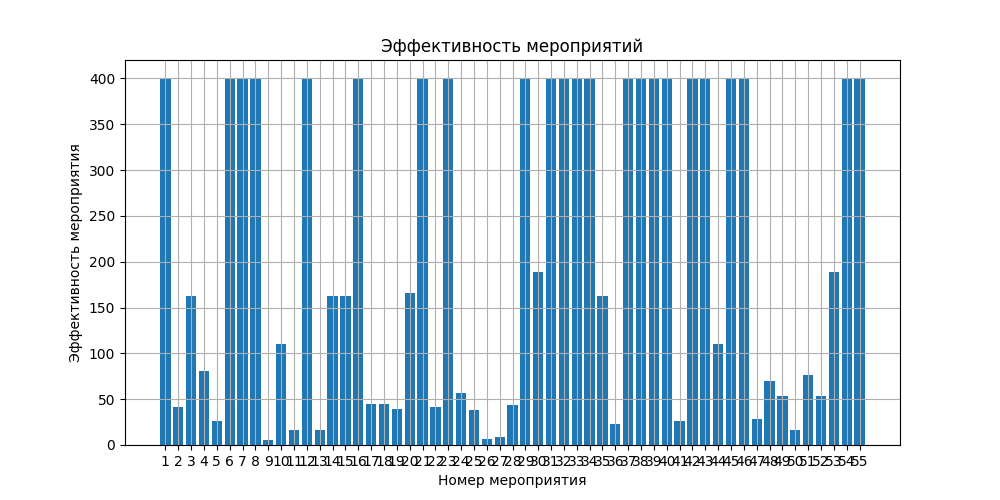
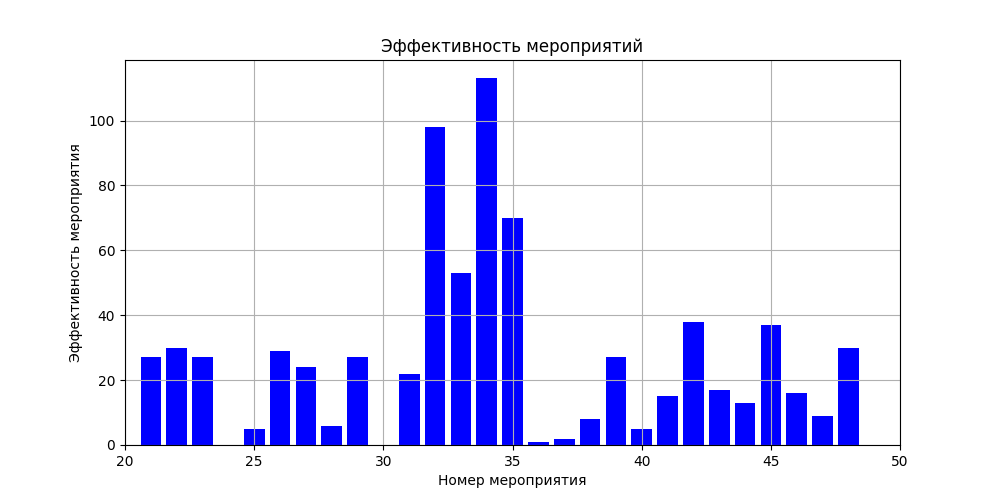
bar2

diff --git a/model2.py b/model2.py
@@ -2,6 +2,7 @@ import numpy as np
 import pandas as pd
 from scipy.optimize import minimize
 from scipy.integrate import quad
+from tqdm import tqdm
 
 def load_data():
     file1 = 'inter_date_num.txt'
@@ -30,7 +31,10 @@ def get_parameters():
     initial_params[2*num_event_types:] += 0.15
     bounds = [(0, 100)] * num_event_types + [(0.3, 2)] * num_event_types + [(0.15, 2)] * num_event_types
 
+    pbar = tqdm()
+
     def loss_function(params):
+        pbar.update(1)
         K0s = params[:num_event_types]
         V_abss = params[num_event_types:2*num_event_types]
         V_els = params[2*num_event_types:3*num_event_types]
@@ -46,28 +50,28 @@ def get_parameters():
                 V_abs = V_abss[et - 1]
                 V_el = V_els[et - 1]
                 if sub_day >= ed:
-                    effect = pharmacokinetic_model((sub_day - ed)//86400, K0, V_abs, V_el)
-                    #effect, error = quad(
-                        #lambda t, K0=K0, V_abs=V_abs, V_el=V_el: pharmacokinetic_model(t, K0, V_abs, V_el), 0,(sub_day - ed)//86400)
+                    # effect = pharmacokinetic_model((sub_day - ed)//86400, K0, V_abs, V_el)
+                    effect, error = quad(
+                        lambda t, K0=K0, V_abs=V_abs, V_el=V_el: pharmacokinetic_model(t, K0, V_abs, V_el), 0,(sub_day - ed)//86400)
                     total_effect += effect
             total_subscribers[i] += total_effect
         return np.sum((total_subscribers - sub_cnt) ** 2)
 
-    result = minimize(loss_function, initial_params, method='TNC', bounds=bounds)
+    def callback(xk):
+        pbar.update(1)
+
+    result = minimize(loss_function, initial_params, method='L-BFGS-B', bounds=bounds, options={'maxfun': 1000, 'maxiter': 1000},
+                      callback=callback)
+
+    pbar.close()
     return result.x[:num_event_types], result.x[num_event_types:2*num_event_types], result.x[2*num_event_types:], sub_time, event_time, event_type
 
 K0_params, V_abs_params, V_el_params, sub_time, event_time, event_type = get_parameters()
-print("Optimized parameters for each event type:")
-for i in range(len(K0_params)):
-    print(f"Event type {i+1}: K0 = {K0_params[i]:.2f}, V_abs = {V_abs_params[i]:.2f}, V_el = {V_el_params[i]:.2f}")
 
 integrals = []
 for i in range(len(K0_params)):
     integral, error = quad(lambda t, K0=K0_params[i], V_abs=V_abs_params[i], V_el=V_el_params[i]: pharmacokinetic_model(t, K0, V_abs, V_el), 0, np.inf)
-    integrals.append((i + 1, integral))
-
-for idx, val in integrals:
-    print(f"Integral for event type {idx}: {val:.2f}")
+    integrals.append([i + 1, integral])
 
 def get_coefficients():
     return integrals

diff --git a/table2.py b/table2.py
@@ -5,8 +5,30 @@ import matplotlib.pyplot as plt
 
 from model2 import get_coefficients
 final_coefficients = get_coefficients()
-
 num_event_types = len(final_coefficients)
+
+file1 = 'inter_date_num.txt'
+data1 = pd.read_csv(file1, delimiter=' ', header=None, names=['X', 'Y'])
+sub_time = [int(x) for x in data1['X']]
+sub_cnt = [int(y) for y in data1['Y']]
+
+file2 = 'date_type.txt'
+data2 = pd.read_csv(file2, delimiter=',', header=None, names=['X', 'Y'])
+event_time = [int(x) for x in data2['X']]
+event_type = [int(y) for y in data2['Y']]
+
+min_time = min(sub_time)
+max_time = max(sub_time)
+
+check_index = np.zeros(len(final_coefficients) + 1)
+for i in range(len(event_time)):
+    if min_time <= event_time[i] <= max_time:
+        check_index[event_type[i]] = 1
+
+for i in range(num_event_types):
+    if check_index[i+1] == 0:
+        final_coefficients[i+1][1] = 0
+
 data = []
 
 for event_type in range(num_event_types):

diff --git a/res2.py b/res2.py
@@ -23,10 +23,11 @@ for event_type, numbers in type_to_numbers.items():
 plot_data = plot_data.sort_values(by='Event_Number')
 
 plt.figure(figsize=(10, 5))
-plt.bar(plot_data['Event_Number'], plot_data['Efficiency'], tick_label=plot_data['Event_Number'].astype(int))
+plt.bar(plot_data['Event_Number'], plot_data['Efficiency'], color='blue')
 plt.xlabel('Номер мероприятия')
 plt.ylabel('Эффективность мероприятия')
 plt.title('Эффективность мероприятий')
+plt.xlim(20, 50)
 plt.grid(True)
 
 chart_file_path = 'bar2.png'
